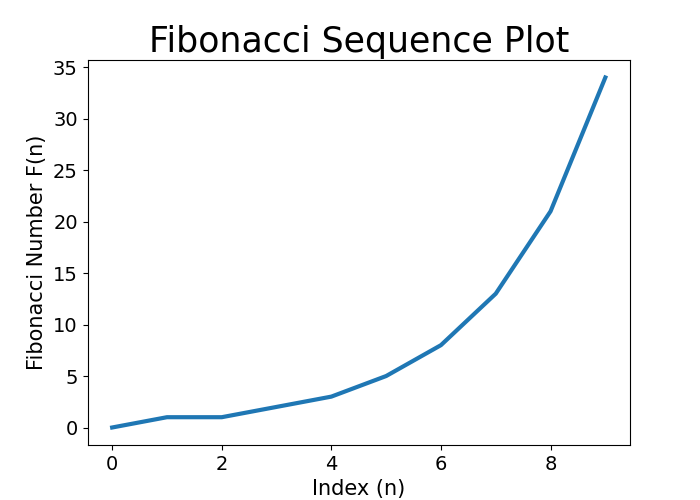
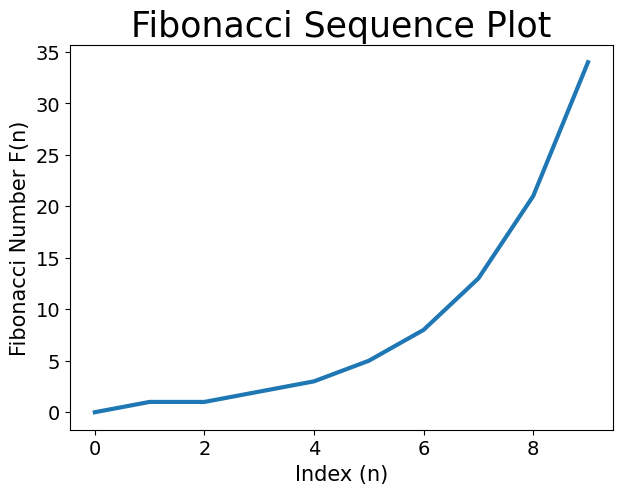
Save all the output plots automatically using bbox_inches

diff --git a/simple_visualizations/customized_line_graph/main.py b/simple_visualizations/customized_line_graph/main.py
@@ -14,4 +14,4 @@ ax.set_ylabel('Fibonacci Number F(n)', fontsize=15)
 
 ax.tick_params(labelsize=14)
 
-plt.show()
+plt.savefig('output.png', bbox_inches = 'tight')

diff --git a/simple_visualizations/scatter_plot/main.py b/simple_visualizations/scatter_plot/main.py
@@ -17,4 +17,4 @@ ax.set_ylabel('Fibonacci Numbers F(n)',fontsize=15)
 
 ax.tick_params(labelsize=14)
 
-plt.show()
+plt.savefig('output.png', bbox_inches = 'tight')

diff --git a/simple_visualizations/scatter_plot_colormaps/main.py b/simple_visualizations/scatter_plot_colormaps/main.py
@@ -17,4 +17,4 @@ ax.set_ylabel('Square Value',fontsize=15)
 
 ax.tick_params(labelsize=14)
 
-plt.show()
+plt.savefig('output.png', bbox_inches = 'tight')

diff --git a/simple_visualizations/simple_line_graph/main.py b/simple_visualizations/simple_line_graph/main.py
@@ -6,4 +6,4 @@ fig, ax = plt.subplots()
 
 ax.plot(fibbonacci_sequence)
 
-plt.show()
+plt.savefig('output.png', bbox_inches = 'tight')
